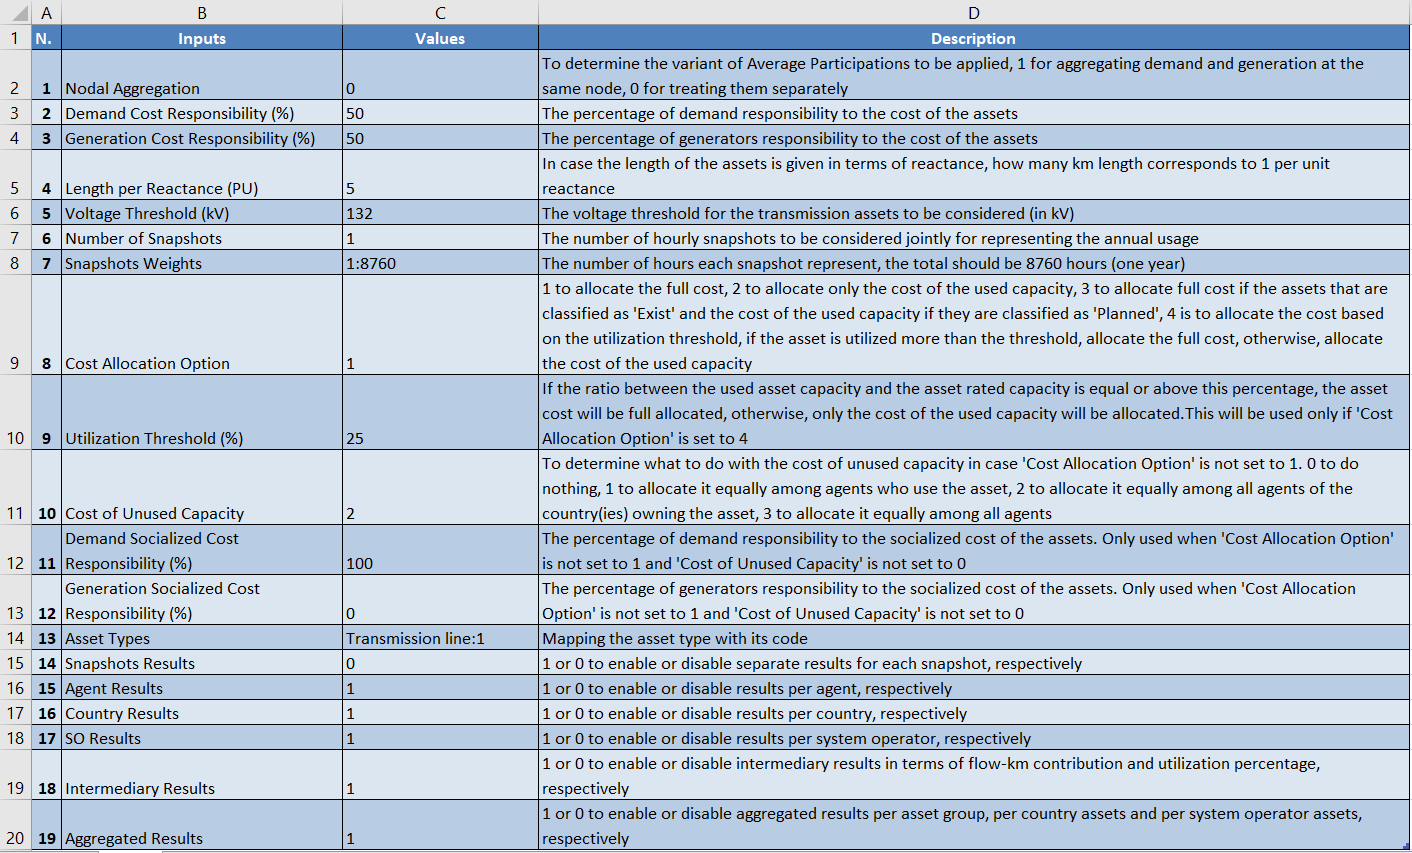
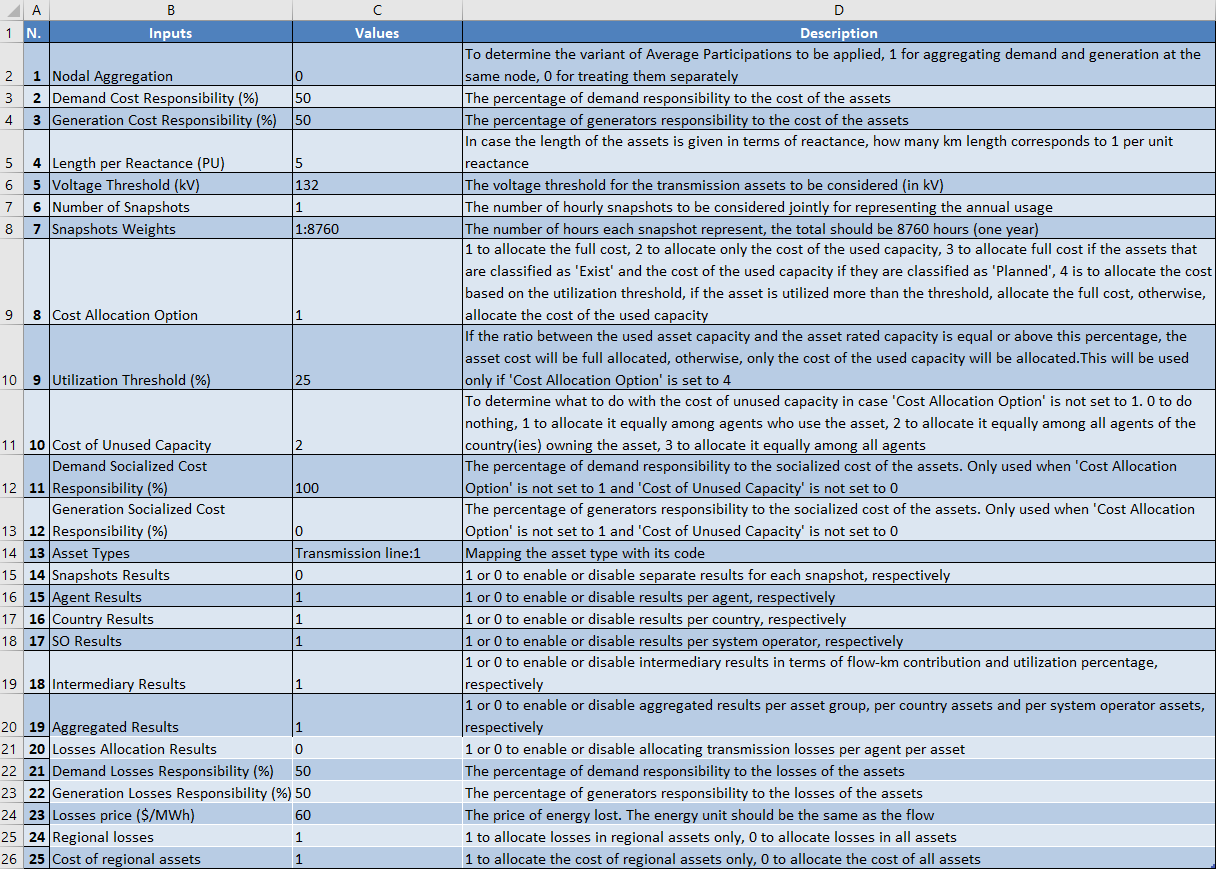
V1.1.0 documentation update
Fixing the documentation
Adding a new template
Fixing the setup file for the new version

diff --git a/setup.py b/setup.py
@@ -26,7 +26,7 @@ setup(
     long_description = "README.md",
     packages=['InfraFair'],
     install_requires=['numpy>=1.21.4',
-                      'pandas>=1.3.4,<2.0.0',
+                      'pandas==1.3.4',
                       'matplotlib>=3.5.0',
                       'openpyxl>=3.0.0',
                       ],

diff --git a/README.md b/README.md
@@ -27,6 +27,7 @@ The rule assumes that energy flows can be traced by supposing that at any networ
 InfraFair determines the network utilisation of agents, system operators and countries. 
 Based on this utilisation and assuming that it reflects the economic benefits received by agents, 
 it determines the responsibility of each agent in the construction of each element in the network. 
+Additionally, it can also attribute losses on the assets to their responsible agents.
 In order to reasonably reflect agent utilisation of infrastructure, multiple representative snapshots 
 of annual network usage should be provided. InfraFair presents a decision support tool for tariff 
 design for regional power transmission infrastructure, but it can be used for national infrastructure 
@@ -39,17 +40,17 @@ power lines, transformers, breaks, series capacitors and phase shifting transfor
 ## Functionality
 Inputs to the model must consist of the **map of flows** in each of the assets as well as the **injections and withdrawals** of energy at each node. Additionally, the **rating capacity and the capital cost** of each asset must be provided for the model to be able to allocate costs to network users. Other information, such as the voltage and the length of each asset, can be provided to produce optional categorised results. When provided with hourly representative snapshots of these inputs, InfraFair can calculate (per snapshot and overall annual weighted average):
 
-* Individual agent flow and cost contributions to each asset in the network.
-* Country flow and cost contributions to each asset in the network.
+* Individual agent flows, losses and cost contributions to each asset in the network.
+* Country flows, losses and cost contributions to each asset in the network.
 * Individual agent and country utilisation of each asset in the network.
-* Individual Agent flow and cost contributions to similar aggregated assets.
-* Country flow and cost contributions to similar aggregated assets. 
+* Individual Agent flows, losses and cost contributions to similar aggregated assets.
+* Country flows, losses and cost contributions to similar aggregated assets. 
 * Individual agent and country utilisation of similar aggregated assets.
 * Individual Agent total cost contribution to be paid.
 * Individual agent and country utilisation of the whole network.
-* Country flow and cost contributions made of the use of each other country.
+* Country flows, losses and cost contributions made of the use of each other country.
 * Country total flow and cost contributions made of the use of the rest of the network.
-* Country flow and cost incurred from the use made by the rest of the countries.
+* Country flows, losses and cost incurred from the use made by the rest of the countries.
 
 
 ## Installation
@@ -67,6 +68,10 @@ Alternatively, it can be installed from its GitHub repository following these fo
 4. Install InfraFair via pip by using the command 
       
          > pip install . 
+
+An already installed model can be upgraded to the latest version with the following command:
+
+      > pip install --upgrade InfraFair 
 
 
 ## Dependencies

diff --git a/doc/1_Introduction.rst b/doc/1_Introduction.rst
@@ -25,6 +25,7 @@ Scope
 InfraFair determines the network utilisation of agents, system operators and countries. 
 Based on this utilisation and assuming that it reflects the economic benefits received by agents, 
 it determines the responsibility of each agent in the construction of each element in the network. 
+Additionally, it can also attribute losses on the assets to their responsible agents.
 In order to reasonably reflect agent utilisation of infrastructure, multiple representative snapshots 
 of annual network usage should be provided. InfraFair presents a decision support tool for tariff 
 design for regional power transmission infrastructure, but it can be used for national infrastructure 
@@ -38,17 +39,17 @@ Functionality
 =============
 Inputs to the model must consist of the **map of flows** in each of the assets as well as the **injections and withdrawals** of energy at each node. Additionally, the **rating capacity and the capital cost** of each asset must be provided for the model to be able to allocate costs to network users. Other information, such as the voltage and the length of each asset, can be provided to produce optional categorised results. When provided with hourly representative snapshots of these inputs, InfraFair can calculate (per snapshot and overall annual weighted average):
 
-* Individual agent flow and cost contributions to each asset in the network.
-* Country flow and cost contributions to each asset in the network.
+* Individual agent flows, losses and cost contributions to each asset in the network.
+* Country flows, losses and cost contributions to each asset in the network.
 * Individual agent and country utilisation of each asset in the network.
-* Individual Agent flow and cost contributions to similar aggregated assets.
-* Country flow and cost contributions to similar aggregated assets. 
+* Individual Agent flows, losses and cost contributions to similar aggregated assets.
+* Country flows, losses and cost contributions to similar aggregated assets. 
 * Individual agent and country utilisation of similar aggregated assets.
 * Individual Agent total cost contribution to be paid.
 * Individual agent and country utilisation of the whole network.
-* Country flow and cost contributions made of the use of each other country.
+* Country flows, losses and cost contributions made of the use of each other country.
 * Country total flow and cost contributions made of the use of the rest of the network.
-* Country flow and cost incurred from the use made by the rest of the countries.
+* Country flows, losses and cost incurred from the use made by the rest of the countries.
 
 
 Target user group

diff --git a/doc/9_Release_Notes.rst b/doc/9_Release_Notes.rst
@@ -4,12 +4,29 @@
  Release Notes
 ##########################################
 
-The first release of InfraFair contains the core of the model with the basic feature of 
-exporting raw results in the form of .csv files. In this release, special attention was 
-given to the electricity infrastructure, as this is the field in which the model was 
-scientifically conceived. Below are some of the features we are considering in future releases.
+Below are some of the features we are considering in future releases.
 
 * Add graphical representations for the results.
 * Program soft linkages with other software, e.g., the PSS/E software for electricity infrastructure, and integrated assessment platforms, e.g., the IAMC Scenario Explorer. 
 * Include consideration and applications for other flow-based infrastructure, potentially gas, hydrogen and heat infrastructure.
 * Feature an interactive option for users to create their own network from scratch.	 
+
+InfraFair 1.1.0 (4th of April 2024)
+===========================================
+This version includes the following improvements:
+
+* Adding losses allocation feature with split key and price input option.
+* Improving the execution of function get_total_nodal_flows().
+* Allowing the duplicated assets with an optional ID column to be processed.
+* Adding joint results for countries and SOs results.
+* Adding optional input variables to allocate the cost and losses of assets classified as regional only.
+* Fixing the bug with the EU examples raw data for asset duplication processing.
+* Fixing bugs in some "if" conditions and renaming variables for better readability.
+* Changing the dependency version of Pandas for processing duplicated assets in the setup file.  
+
+InfraFair 1.0.0 (6th of December 2023)
+===========================================
+This was the first release of InfraFair. It contains the core of the model with the basic feature of 
+exporting raw results in the form of .csv files. In this release, special attention was 
+given to the electricity infrastructure, as this is the field in which the model was 
+scientifically conceived. 

diff --git a/doc/8_Output_Results.rst b/doc/8_Output_Results.rst
@@ -41,3 +41,9 @@ attributes input data. The cost responsibilities in the Control input variables 
 be allocated to the demand and generators. This percentage of the total cost is then allocated to the different demand and 
 generators proportional to their asset utilisation. 
 
+Losses results
+==============
+The losses results are calculated when data on the losses of each asset is provided in the flow input data. 
+The losses are allocated to agents using the same contribution factor of the flow. For instance, assuming that the losses in a line 
+that has 100 MW flow are 0.1 MW, if an agent is responsible for 40 MW flow on this line, it will be allocated 0.04 MW of the losses
+in this line.

diff --git a/doc/5_Detailed_EU_example.rst b/doc/5_Detailed_EU_example.rst
@@ -28,8 +28,7 @@ To run the case, follow the following commands.
 6. The model will ask you for the (<config_file>) input, click Enter and leave it on the default value.
 
 .. Note::
-    The Assets attributes tab **must include all the lines without duplication**. If there is double circuit lines, the data
-    in the columns "Capacity" and "Cost" **must be the sum** of the two double circuit lines and **duplicated entree must be removed**.
+    The Assets attributes tab **must include all the lines in the flow tab, including duplications**.
 
 Once the model finishes execution, the figure below should be displayed in the command or Anaconda prompt.
 

diff --git a/doc/2_Installation.rst b/doc/2_Installation.rst
@@ -33,6 +33,10 @@ Alternatively, it can be installed from its GitHub repository following these fo
       
         > pip install . 
 
+An already installed model can be upgraded to the latest version with the following command:
+
+      > pip install --upgrade InfraFair 
+      
 
 Dependencies
 ============
